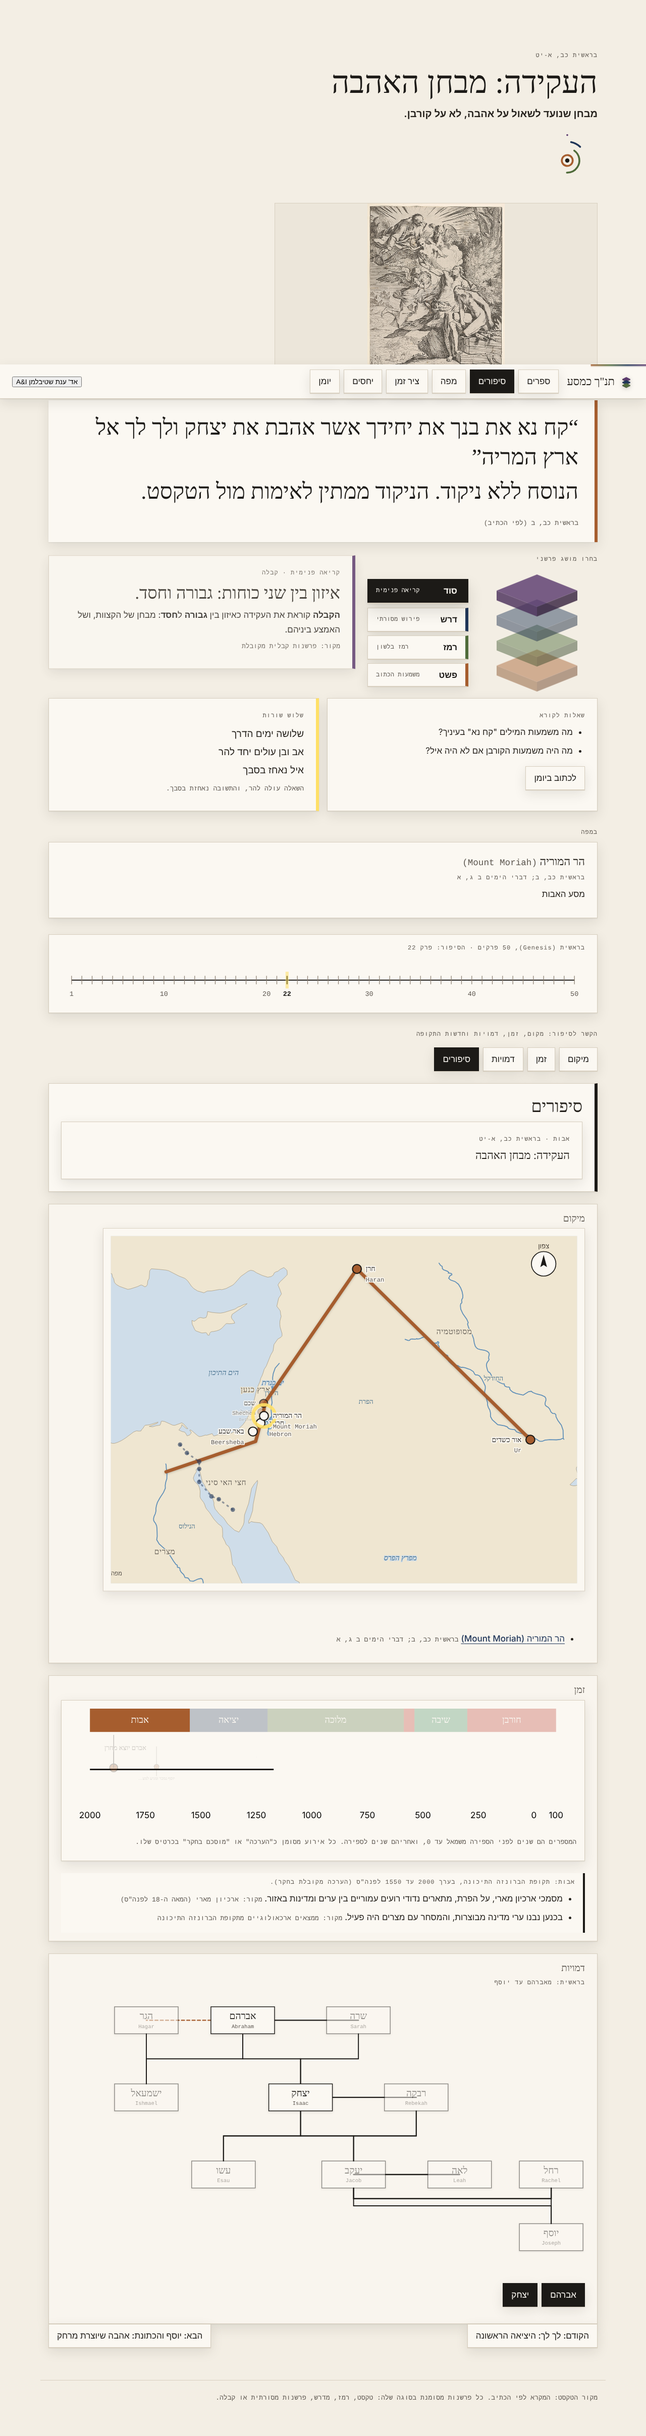
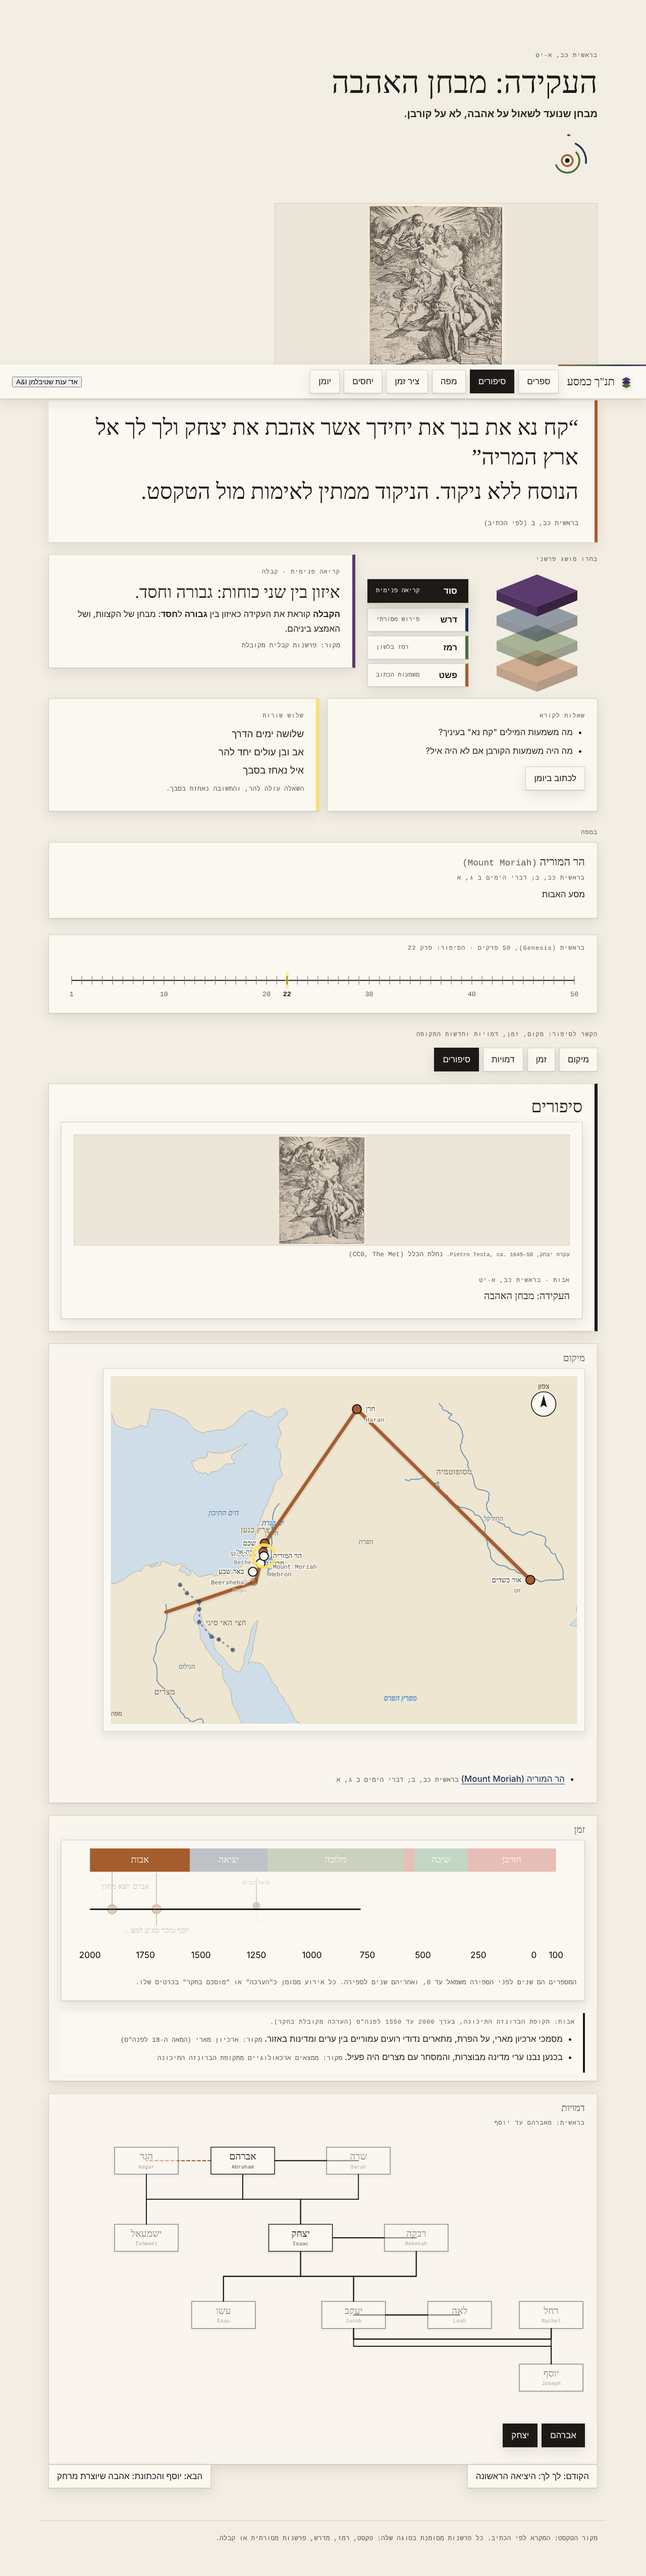
Align story cards: fixed image frame, captions and titles on one line
- Every story card has the same 220px image frame; a card without a verified image shows a note in it
- Captions have a fixed height; titles sit at the bottom of each card, so they align across the row
- E2E: 45 checks

Claude-Session: https://claude.ai/code/session_018qeN17mCFRaqmZ26WBzJgY

diff --git a/src/components/Correlation.tsx b/src/components/Correlation.tsx
@@ -147,20 +147,32 @@ export default function Correlation({ stories, title, initial = 'stories', eras 
       <div className="corr-stories grid cards">
         {stories.map((s) => {
           const art = ART[s.id];
+          // Every card has the same frame: the image sits in it, or a note says none is verified yet.
+          // Text starts at the same line in every card because the frame has a fixed height.
           return (
-            <a key={s.id} href={`#/stories/${s.id}`} className="card link-card press">
-              {art && stories.length > 1 && (
-                <figure className="art-figure">
+            <a key={s.id} href={`#/stories/${s.id}`} className="card link-card press story-card">
+              <div className="story-card-frame">
+                {art ? (
                   <img src={art.src} alt={art.title} loading="lazy" />
-                  <figcaption className="art-caption">
+                ) : (
+                  <p className="story-card-empty">אין עדיין תמונה מאומתת לסיפור הזה.</p>
+                )}
+              </div>
+              <p className="story-card-caption">
+                {art ? (
+                  <>
                     {art.title}, {art.artist}, {art.year}. <span className="source">{art.license}</span>
-                  </figcaption>
-                </figure>
-              )}
-              <p className="eyebrow">
-                {s.era} · {s.ref}
+                  </>
+                ) : (
+                  <span className="source">תמונה: ממתין לאימות</span>
+                )}
               </p>
-              <h3>{s.title}</h3>
+              <div className="story-card-text">
+                <p className="eyebrow">
+                  {s.era} · {s.ref}
+                </p>
+                <h3>{s.title}</h3>
+              </div>
             </a>
           );
         })}

diff --git a/src/styles.css b/src/styles.css
@@ -1447,3 +1447,50 @@ h3 {
   font-size: 12px;
   color: var(--problem);
 }
+
+/* ===== Story cards: image, caption and title align across the row ===== */
+.corr-stories .story-card {
+  display: flex;
+  flex-direction: column;
+  height: 100%;
+}
+.story-card-frame {
+  height: 220px;
+  display: flex;
+  align-items: center;
+  justify-content: center;
+  background: #ece6da;
+  border: 1px solid var(--line);
+  margin-bottom: var(--s2);
+}
+.story-card-frame img {
+  max-width: 100%;
+  max-height: 100%;
+  width: auto;
+  height: auto;
+  object-fit: contain;
+  display: block;
+}
+.story-card-empty {
+  font-family: var(--mono);
+  font-size: 12px;
+  color: var(--muted);
+  text-align: center;
+  padding: var(--s3);
+  margin: 0;
+}
+.story-card-caption {
+  font-family: var(--mono);
+  font-size: 11px;
+  line-height: 1.5;
+  color: var(--muted);
+  height: 3.2em;
+  overflow: hidden;
+  margin: 0 0 var(--s3);
+}
+.story-card-text {
+  margin-top: auto;
+}
+.story-card-text h3 {
+  font-size: 20px;
+}
